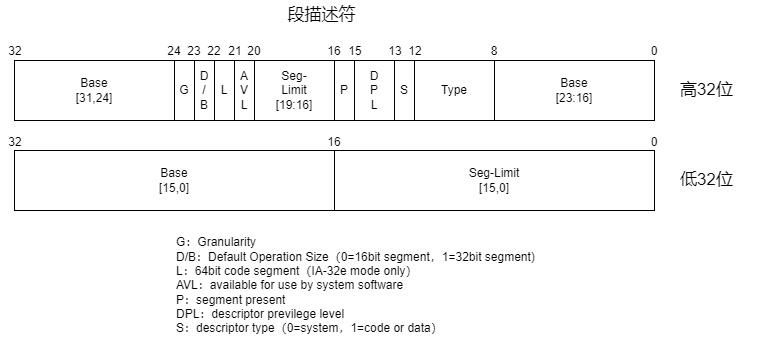
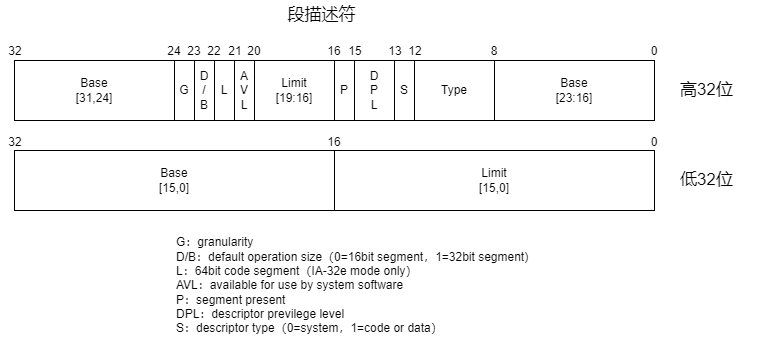
分段机制

Changed region(s): [[0.2421, 0.6553, 0.7263, 0.7692], [0.3632, 0.1994, 0.4237, 0.3134], [0.6053, 0.4843, 0.6961, 0.5128]]

diff --git a/操作系统/分段机制/分段机制.md b/操作系统/分段机制/分段机制.md
@@ -6,7 +6,7 @@
 
 也就是8086的16位模式，16位的段寄存器左移4位（变为20位大小）作为段基址，再加上相应的段偏移值就得到了最终的地址。
 
-比如对于代码段（code segment），计算`%CS<<4+%EIP`就是当前实际要寻址的代码地址。
+比如对于代码段（code segment），计算`%cs<<4+%ip`就是当前实际要寻址的代码地址。
 
 # 保护模式下的分段机制
 
@@ -14,20 +14,23 @@
 
 ![selector](selector.png)
 
-- 索引（INDEX）：在描述符表中的下标值，最多$2^{13}=8192$个描述符。
+- 索引（Index）：在描述符表中的下标值，最多$2^{13}=8192$个描述符。
 - 表指示位（Table Indicator）：表示该访问哪一个描述符表，0表示全局描述符表（GDT），1表示局部描述符表（LDT）。
-- 需要的特权级（Requested Previlege Level）：0表示内核态，3表示用户态，数字越小权力越大。
+- 要求的特权级（Requested Previlege Level）：0表示内核态，3表示用户态。
 
 段描述符一共64bit，其中包括32位的段基地址，20位的段大小，段的类型等。
 
 ![seg-descriptor](seg-descriptor.png)
 
-- 颗粒度（G granularity）：段的大小单位，0表示单位为1Byte，那么段最大为1MB，1表示单位为4KB，那么段最大为4GB。
-- D/B字段：对于代码段来说，为0则为16位模式，使用寄存器%IP，为1则为32位模式，使用寄存器%EIP。对于栈段来说，为0使用寄存器%SP，为1使用寄存器%ESP。
-- L字段：用来设置是否为64位代码段。
-- 段存在位（P segment present）：如果这一位为0，则此描述符为非法的，不能被用来实现地址转换。如果一个非法描述符被加载进一个段寄存器，处理器会立即产生异常。
-- 描述符特权级（DPL Descriptor previlege level）：用来实现特权级，这两位能表示4种特权级，分别是0、1、2、3、4级特权。数字越小权力越大。
-- S字段：为0表示为系统段，为1表示为普通段。
+- Base：段基址。
+- Limit：段限长。
+- G：段限长的颗粒度，为0表示1B，段限长最大1MB，1表示4KB，段限长最大4GB。
+- D/B：0表示16位模式，1为32位模式。代码段为0则使用寄存器`%ip`，为1使用`%eip`。栈段为0使用寄存器`%sp`，为1使用`%esp`。
+- L：是否为64位代码段。
+- AVL：系统软件可用位。
+- P：存在位，如果这一位为0，则此描述符为非法的，不能被用来实现地址转换。如果一个非法描述符被加载进一个段寄存器，处理器会立即产生异常。
+- DPL：段特权级。
+- S：为0表示为系统段，为1表示为普通段。
 
 当S为0时，记录的是系统段，具体类型由type的值确定。
 
